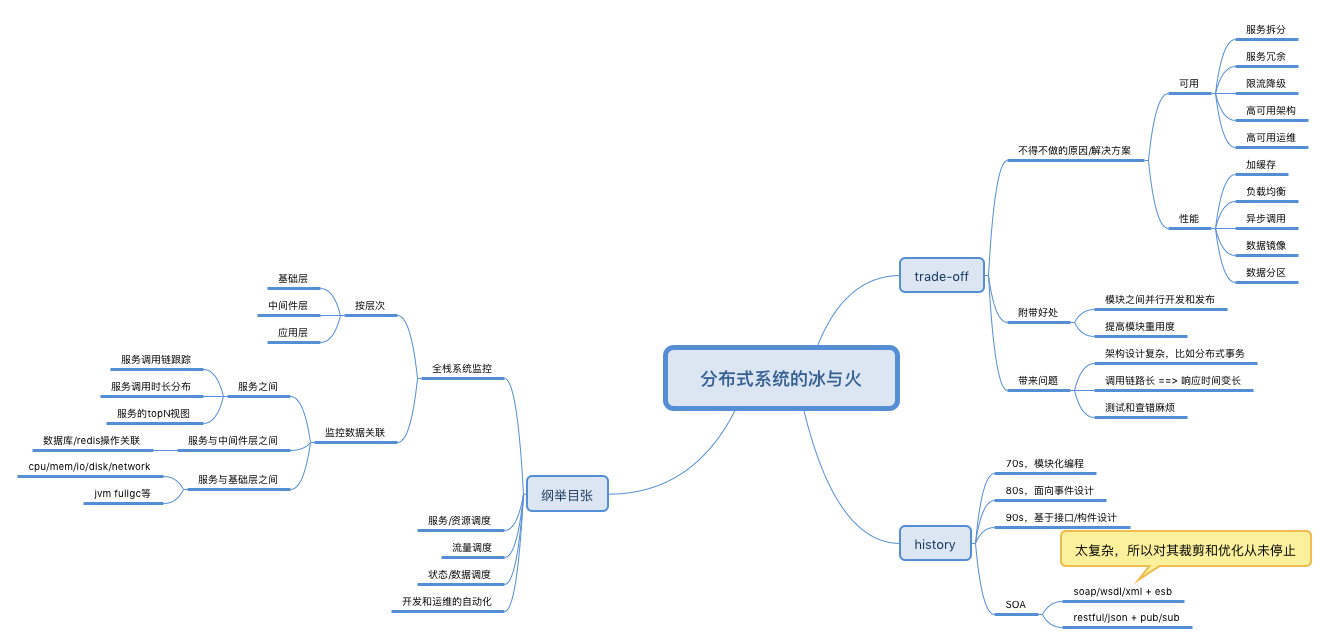
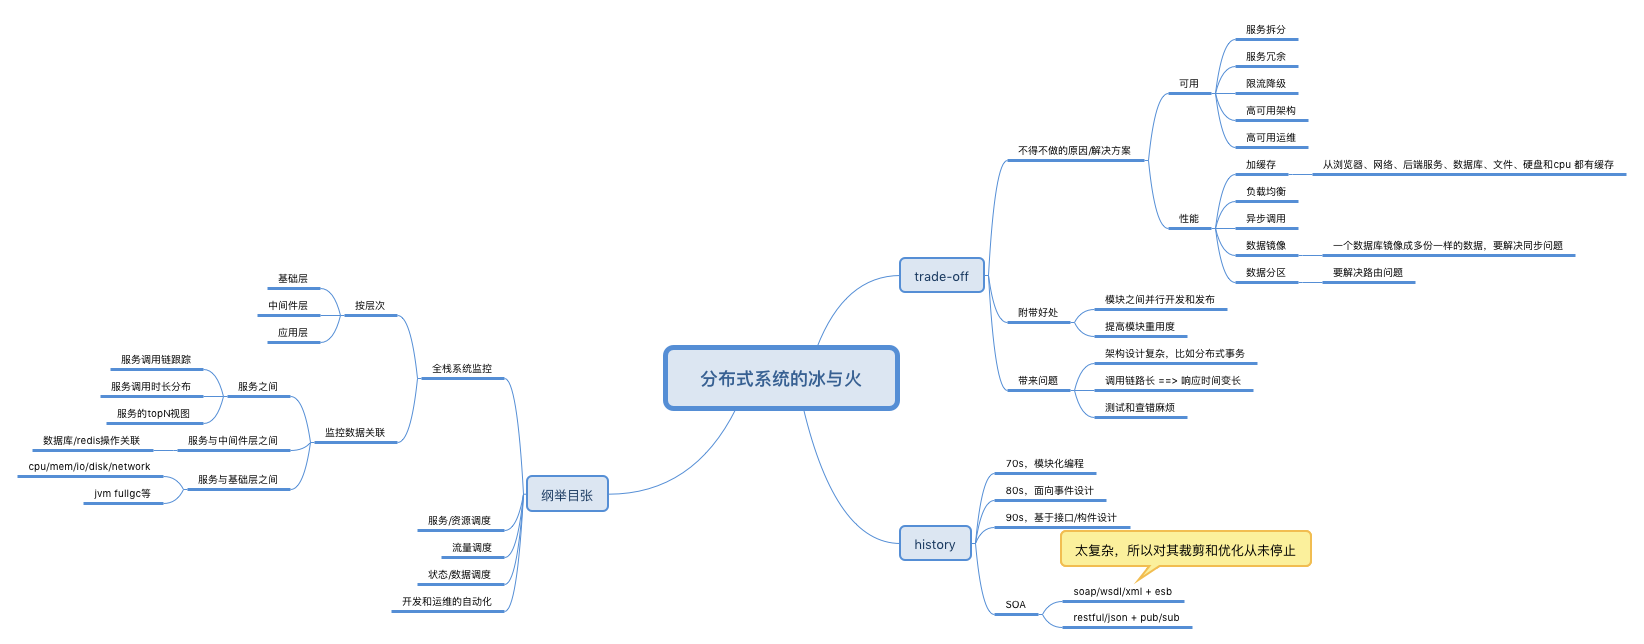
[fix]add post

diff --git a/_posts/Technology/Algorithm/2018-09-19-beauty_of_algorithm.md b/_posts/Technology/Algorithm/2018-09-19-beauty_of_algorithm.md
@@ -17,6 +17,11 @@ keywords: 数据结构与算法之美
 
 人生路上，我们会遇到很多的坎儿。跨过去，你就可以成长，跨不过去就是困难和停滞。而在后面很长一段时间里， 你都需要为这个困难买单。
 
-PS：从互联网行业的发展来说，最开始是将传统行业信息化，这个阶段/性质的项目crud代码就够了。但 用户增大 ==> 数据量大 ==> 更优的数据结构。不满足于单纯的信息展示 ==> 更优的算法。从个人发展上来说，随着团队成员的增多，对crud的关注下降，那么抛出crud，项目的瓶颈在便在项目设计、性能问题上了。（这段会 再琢磨琢磨）
+PS：从互联网行业的发展来说，最开始是将传统行业信息化，这个阶段/性质的项目crud代码就够了。但 用户增大 ==> 数据量大 ==> 更优的数据结构。不满足于单纯的信息展示 ==> 更优的算法。从个人发展上来说，随着团队成员的增多，对crud的关注下降，那么刨除crud，项目的瓶颈在便在项目设计、性能问题上了。（这段会 再琢磨琢磨）
 
 
+![](/public/upload/algorithm/beauty_of_algorithm_post.JPG)
+
+个人微信订阅号
+
+![](/public/upload/qrcode_for_gh.jpg)

diff --git a/_posts/Technology/Architecture/2018-09-08-zuoertingfeng_note.md b/_posts/Technology/Architecture/2018-09-08-zuoertingfeng_note.md
@@ -96,14 +96,7 @@ keywords: 左耳听风
 	* 类似Spring cloud 一样需要提供各种配置服务、服务发现、路由、控制总线等
 	* 像k8s 一样提供各式各样的部署与调度方式
 
-	
-提高系统性能的常用技术
 
-1. 加缓存，从浏览器、网络、后端服务、数据库、文件、硬盘和cpu 都有缓存
-2. 负载均衡
-3. 异步调用，异步系统主要通过消息队列来对请求做排队处理，把调用方请求的“峰值”给削平了，后端通过自己能够处理的速度来处理请求。这样会增加系统的吞吐量，但实时性就差很多。同时还会引入消息丢失的问题，所以要对消息做持久化，这会造成“有状态”的节点，从而增加服务调度的难度。
-4. 数据镜像，一个数据库镜像成多份一样的数据，要解决同步问题
-5. 数据分区，要解决路由问题
 	
 ![](/public/upload/architecture/zuoerduohaozi_post.JPG)
 

diff --git a/_posts/Technology/Architecture/2017-05-16-async_program.md b/_posts/Technology/Architecture/2017-05-16-async_program.md
@@ -21,6 +21,8 @@ keywords: 异步
 2. 框架是如何提供异步接口的
 3. 上层业务如何使用这些异步接口来组织逻辑
 
+2018.9.26补充，《左耳听风》提到：**异步系统主要通过消息队列来对请求做排队处理**，把调用方请求的“峰值”给削平了，后端通过自己能够处理的速度来处理请求。这样会增加系统的吞吐量，但实时性就差很多。同时还会引入消息丢失的问题，所以要对消息做持久化，这会造成“有状态”的节点，从而增加服务调度的难度。
+
 ## 为什么异步web可以提高吞吐量
 
 首先，异步不是突然出现一个异步就牛了，而是一系列手段加持的结果
